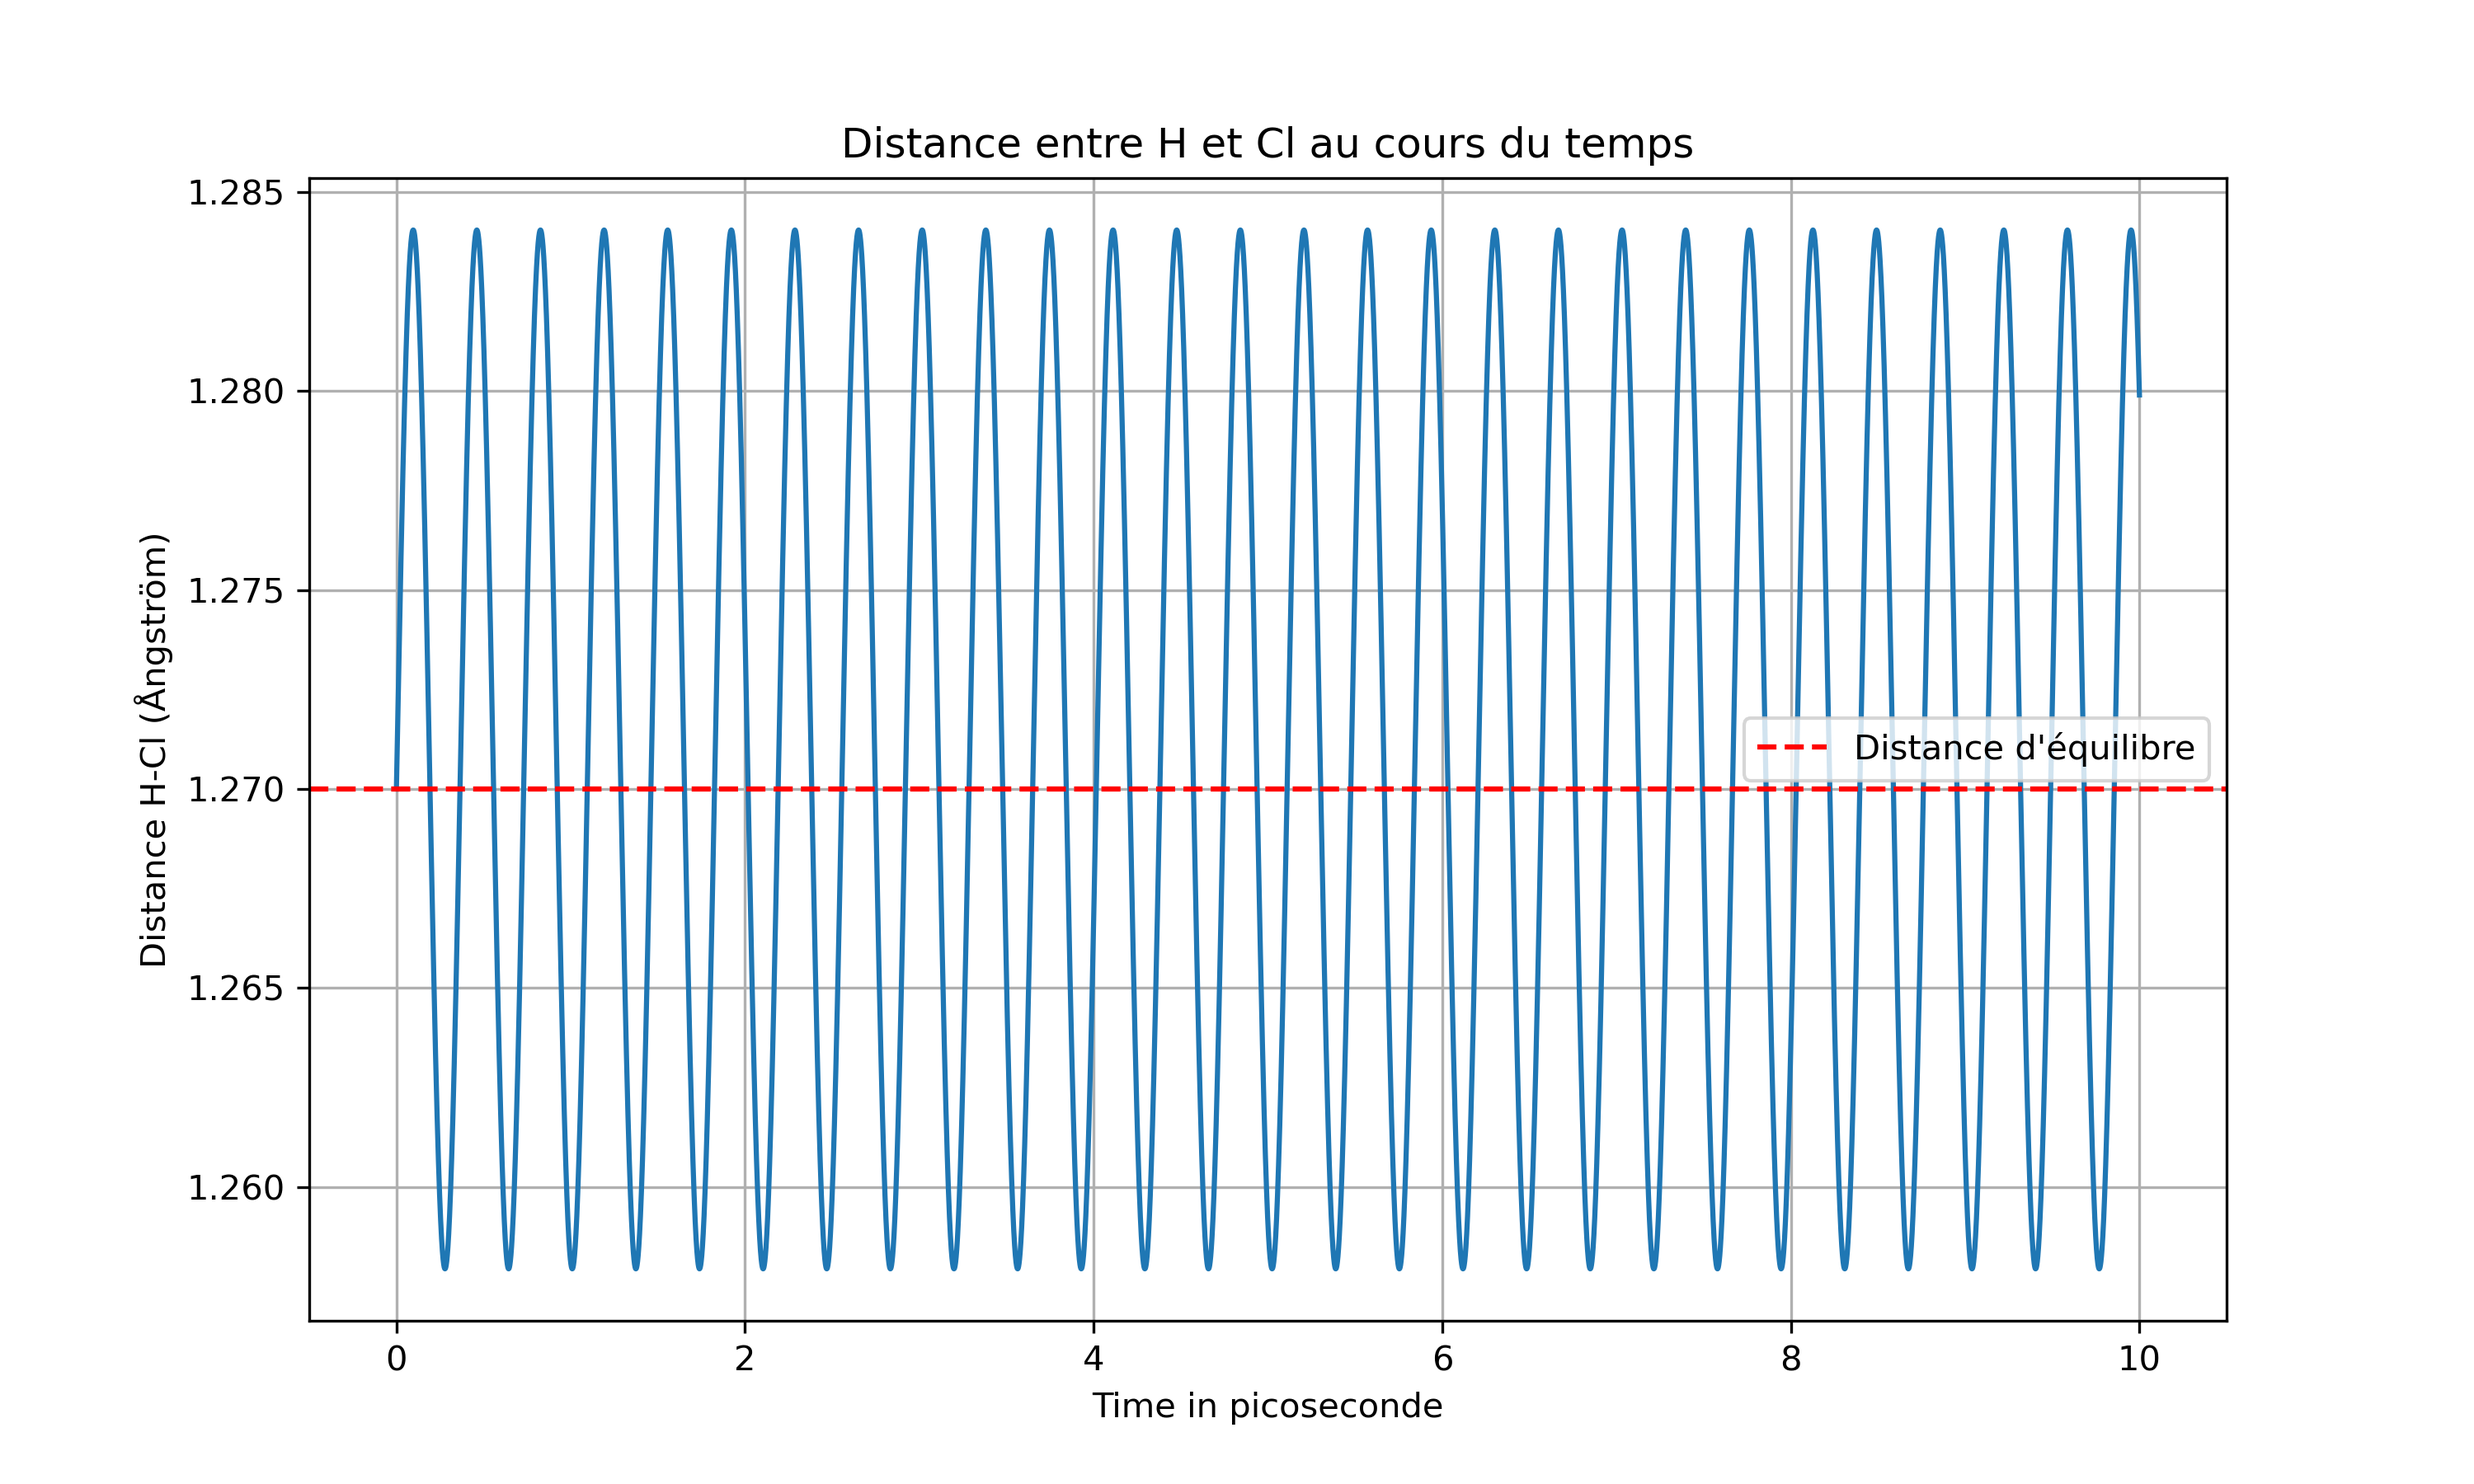
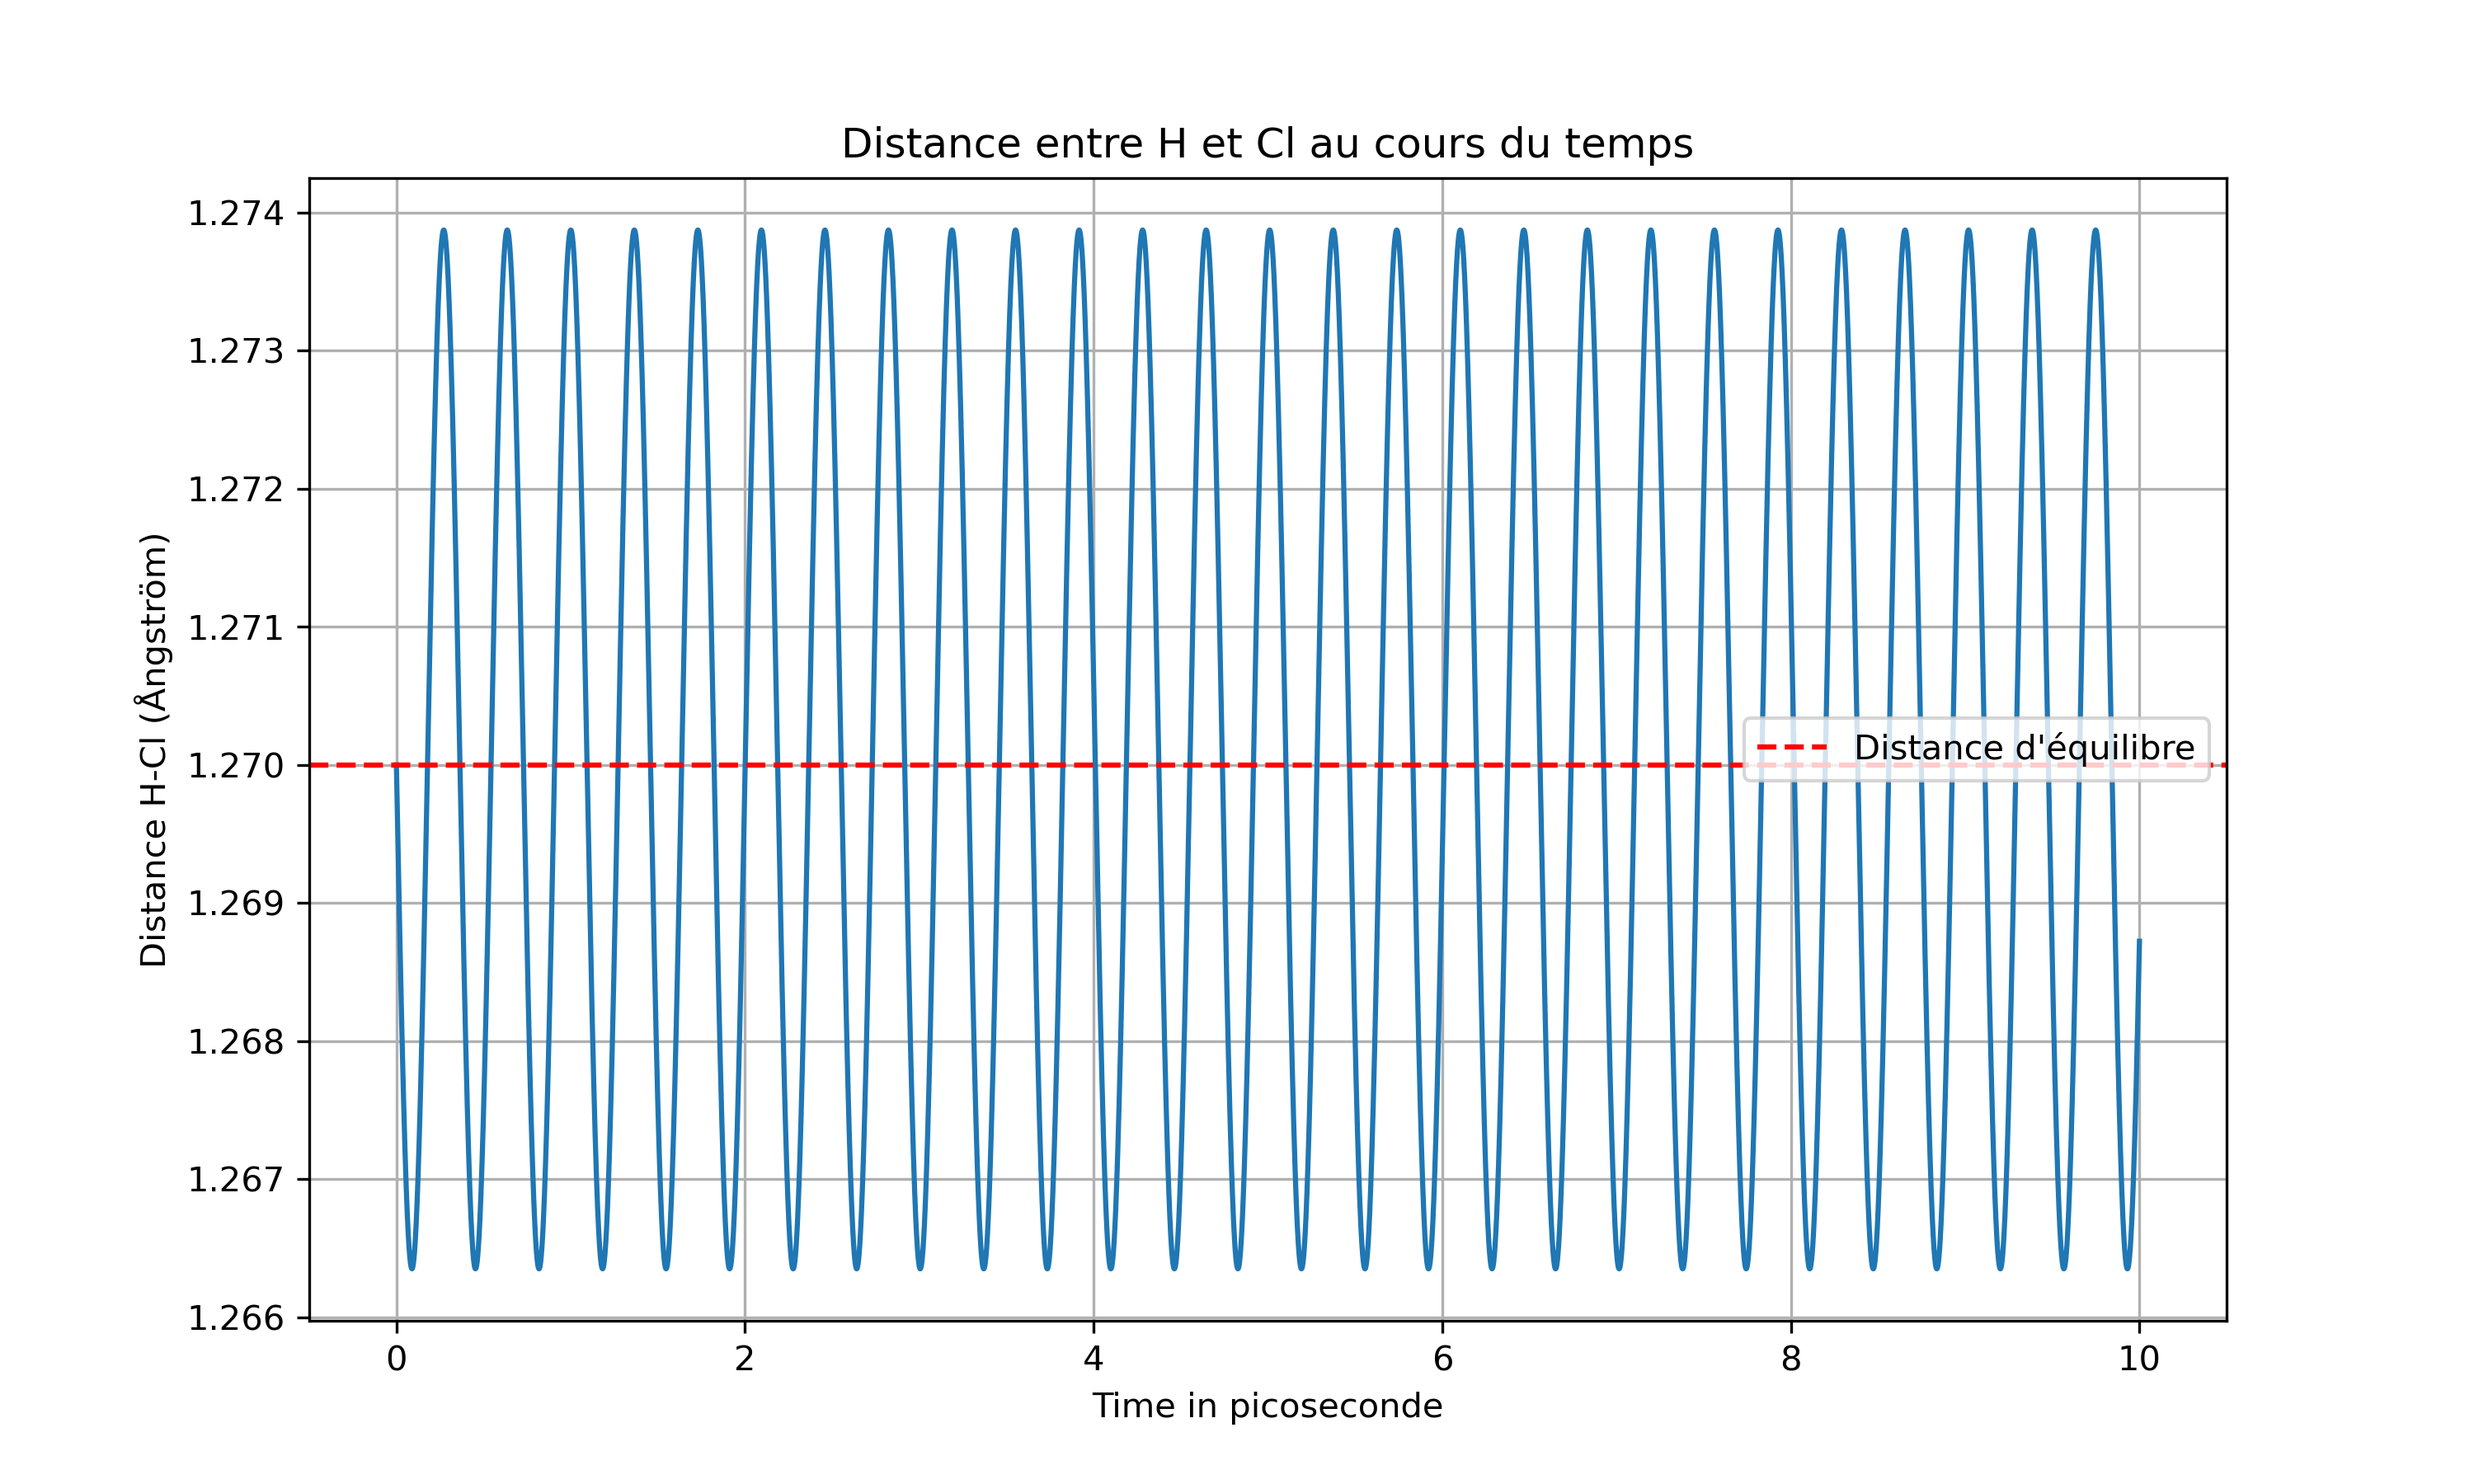
15h

diff --git a/main.py b/main.py
@@ -12,14 +12,14 @@ kB = 1.380e-23 # Constante de Boltzmann
 T_ther = 300 # Température thermostat
 D = 4.6141*1.6e-19
 alpha = 1.81e10
-gamma = 0
+gamma = 1e12
 k=2*D*alpha**2 # Constante de raideur du ressort (N/m)
 T= 20
 potentiel = "Harmonique"
 # Paramètres de simulation
 
 dt = 1e-16 # Pas de temps (s)
-n_steps = 100000 # Nombre de pas de temps
+n_steps = 10000 # Nombre de pas de temps
 
 # Fonction pour calculer la distance entre les deux atomes
 def distance(H_pos, Cl_pos):
@@ -176,6 +176,7 @@ Cl_velocity = np.array(Cl_velocity)
 
 
 mu = (m_H*m_Cl)/(m_Cl+m_H)
+
 CM_velocity = (m_H*H_velocity+m_Cl*Cl_velocity)/(m_H+m_Cl)
 
 Relative_position = Cl_positions - H_positions
@@ -241,30 +242,47 @@ def moyenne_cumul(E):
 plot7 = moyenne_cumul(Total_energy/(kB*T_ther))
 plot8 = moyenne_cumul(Kinetic_energy/(kB*T_ther))
 plot9 = moyenne_cumul(Potential_energy/(kB*T_ther))
+plot10 = moyenne_cumul(Translation_energy/(kB*T_ther))
+plot11 = moyenne_cumul(Rotational_energy/(kB*T_ther))
+plot12 = moyenne_cumul(Vibrational_energy/(kB*T_ther))
 
 #Plot Energie totale, potentielle et cinétique moyenne
-# plt.figure(figsize=(10,6))
-# plt.plot(temps, plot7, c="red", label="energie totale moyenne")
-# plt.axhline(np.mean(Total_energy)/(kB*T_div), color='red', linestyle='--', label=f'energie totale moyenne = {np.mean(Total_energy)/(kB*T_div):.2f}')
-# plt.plot(temps, plot9, c="blue", label="energie potentielle")
-# plt.axhline(np.mean(Potential_energy)/(kB*T_div), color='blue', linestyle='--', label=f'energie potentielle moyenne = {np.mean(Potential_energy)/(kB*T_div):.2f}')
-# plt.plot(temps, plot8, c="black", label="energie cinétique")
-# plt.axhline(np.mean(Kinetic_energy)/(kB*T_div), color='black', linestyle='--', label=f'energie cinétique moyenne = {np.mean(Kinetic_energy)/(kB*T_div):.2f}')
-# plt.legend()
-# plt.xlabel("Time in picoseconde")
-# plt.ylabel("Energy/(kB*T)")
-# plt.grid(True)
-# plt.show()
+plt.figure(figsize=(10,6))
+plt.plot(temps, plot7, c="red", label="energie totale moyenne")
+plt.axhline(np.mean(Total_energy)/(kB*T_div), color='red', linestyle='--', label=f'energie totale moyenne = {np.mean(Total_energy)/(kB*T_div):.2f}')
+plt.plot(temps, plot9, c="blue", label="energie potentielle")
+plt.axhline(np.mean(Potential_energy)/(kB*T_div), color='blue', linestyle='--', label=f'energie potentielle moyenne = {np.mean(Potential_energy)/(kB*T_div):.2f}')
+plt.plot(temps, plot8, c="black", label="energie cinétique")
+plt.axhline(np.mean(Kinetic_energy)/(kB*T_div), color='black', linestyle='--', label=f'energie cinétique moyenne = {np.mean(Kinetic_energy)/(kB*T_div):.2f}')
+plt.legend()
+plt.xlabel("Time in picoseconde")
+plt.ylabel("Energy/(kB*T)")
+plt.grid(True)
+plt.show()
 
 #Plot Energie totale, potentielle et cinétique
 plt.figure(figsize=(10,6))
 plt.plot(temps, plot1, c="red", label="energie totale")
-plt.axhline(np.mean(Total_energy)/(kB*T_div), color='red', linestyle='--', label=f'energie totale moyenne = {np.mean(Total_energy)/(kB*T_div):.2f}')
+# plt.axhline(np.mean(Total_energy)/(kB*T_div), color='red', linestyle='--', label=f'energie totale moyenne = {np.mean(Total_energy)/(kB*T_div):.2f}')
 plt.plot(temps, plot2, c="blue", label="energie potentielle")
-plt.axhline(np.mean(Potential_energy)/(kB*T_div), color='blue', linestyle='--', label=f'energie potentielle moyenne = {np.mean(Potential_energy)/(kB*T_div):.2f}')
-plt.plot(temps, plot6, c="black", label="energie cinétique")
-plt.axhline(np.mean(Kinetic_energy)/(kB*T_div), color='black', linestyle='--', label=f'energie cinétique moyenne = {np.mean(Kinetic_energy)/(kB*T_div):.2f}')
+# plt.axhline(np.mean(Potential_energy)/(kB*T_div), color='blue', linestyle='--', label=f'energie potentielle moyenne = {np.mean(Potential_energy)/(kB*T_div):.2f}')
+plt.plot(temps, plot6, c="green", label="energie cinétique")
+# plt.axhline(np.mean(Kinetic_energy)/(kB*T_div), color='green', linestyle='--', label=f'energie cinétique moyenne = {np.mean(Kinetic_energy)/(kB*T_div):.2f}')
 plt.legend()
+plt.xlabel("Time in picoseconde")
+plt.ylabel("Energy/(kB*T)")
+plt.grid(True)
+plt.show()
+
+# #Plot Energie cinétique, de translation, de vibration et de rotation moyennes
+plt.figure(figsize=(10,6))
+plt.plot(temps, plot10, c="red", label="energie translation moyenne")
+plt.axhline(np.mean(Translation_energy)/(kB*T_div), color='red', linestyle='--', label=f'energie totale moyenne = {np.mean(Total_energy)/(kB*T_div):.2f}')
+plt.plot(temps, plot11, c="blue", label="energie de rotation moyenne")
+plt.axhline(np.mean(Rotational_energy)/(kB*T_div), color='blue', linestyle='--', label=f'energie potentielle moyenne = {np.mean(Potential_energy)/(kB*T_div):.2f}')
+plt.plot(temps, plot12, c="black", label="energie de vibration moyenne")
+plt.axhline(np.mean(Vibrational_energy)/(kB*T_div), color='black', linestyle='--', label=f'energie cinétique moyenne = {np.mean(Kinetic_energy)/(kB*T_div):.2f}')
+plt.legend(loc='lower right', fontsize=7)
 plt.xlabel("Time in picoseconde")
 plt.ylabel("Energy/(kB*T)")
 plt.grid(True)
